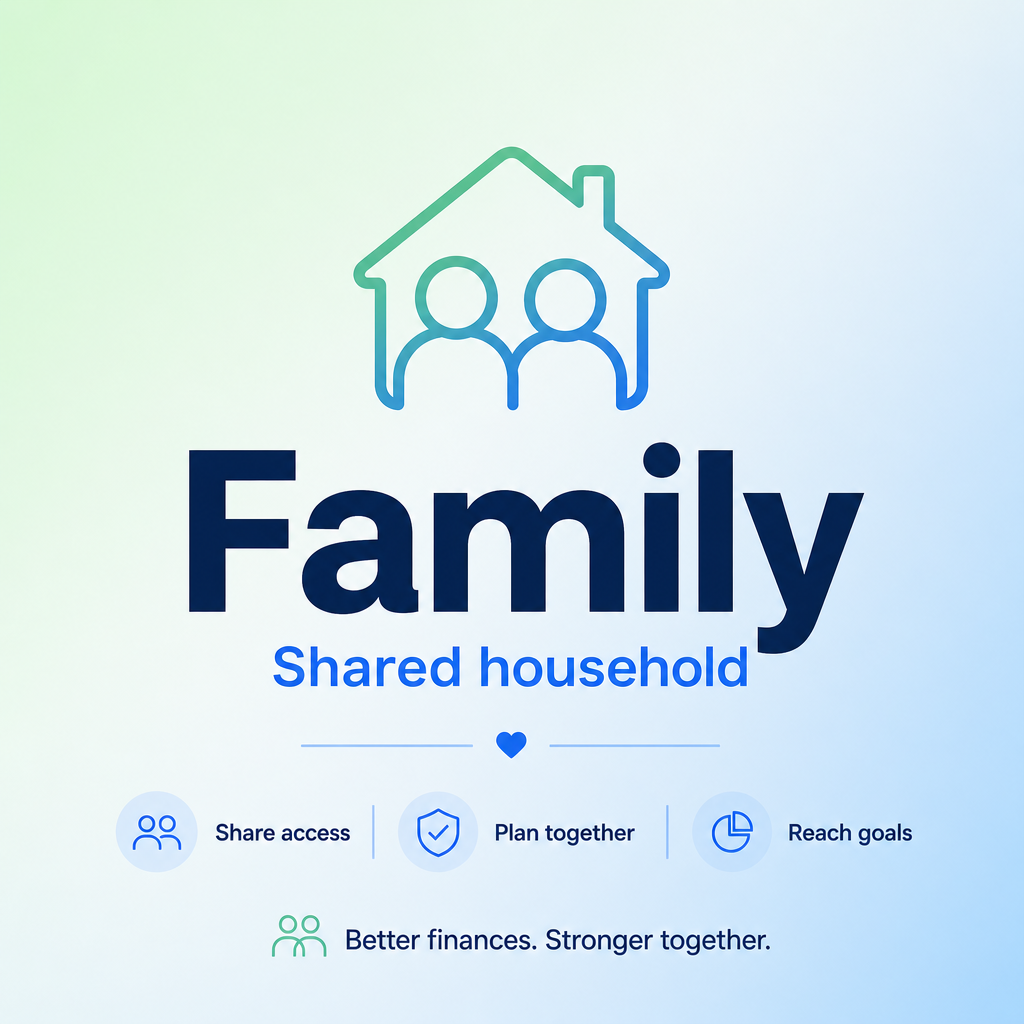
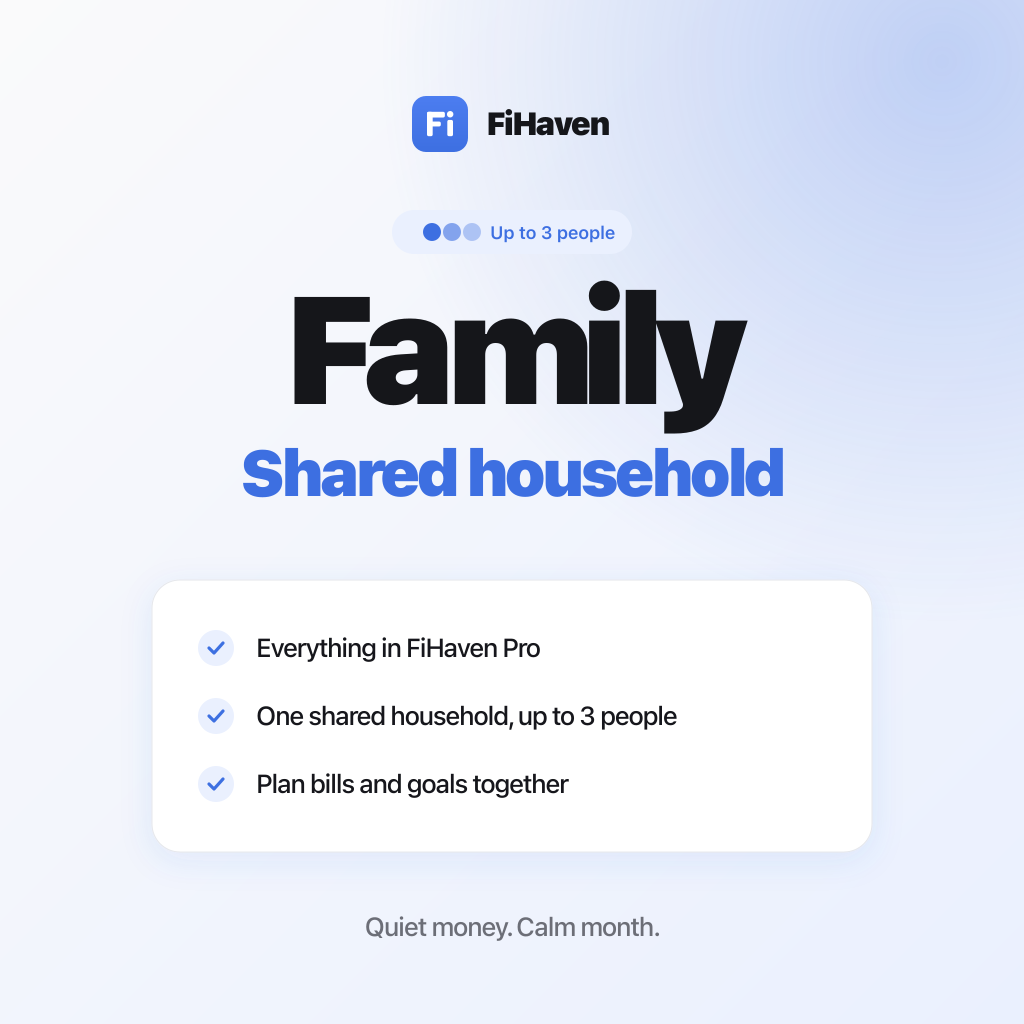
Redraw the IAP promotional images from SVG sources
The three App Store promotional images were one-off PNGs with no source
to edit. They are now generated from SVGs that share the Play feature
graphic's design language — same gradient, brand blue, card treatment
and Manrope — with export-iap-promo.sh (librsvg) doing the render. The
committed PNGs shrink by roughly 8x as a side effect of being drawn
rather than exported from a mockup.

The feature graphic is committed alongside them, and the README says
which file maps to which product id and why no prices appear on them.

diff --git a/docs/maintainer/iap-promo/README.md b/docs/maintainer/iap-promo/README.md
@@ -10,3 +10,19 @@ app icon; each product needs a unique image (Guideline 2.3.2).
 | `iap-promo-family.png` | `app.fihaven.pro.family` |
 
 Upload in App Store Connect → Monetization → each subscription → Promotional Image.
+
+## Editing
+
+The `.svg` files are the source; the PNGs are generated. Edit the SVG, then:
+
+```sh
+./export-iap-promo.sh    # needs: brew install librsvg
+```
+
+They share the design language of `android/play-store/feature-graphic.svg` —
+same gradient, brand blue `#3D6FE1`, card treatment, and Manrope. The font is
+loaded by relative path from `android/play-store/Manrope-Variable.ttf`, so the
+SVGs only render correctly from inside this repo.
+
+Deliberately **no prices**: App Store Connect promotional images shouldn't carry
+pricing, and it would go stale against the real product configuration.
